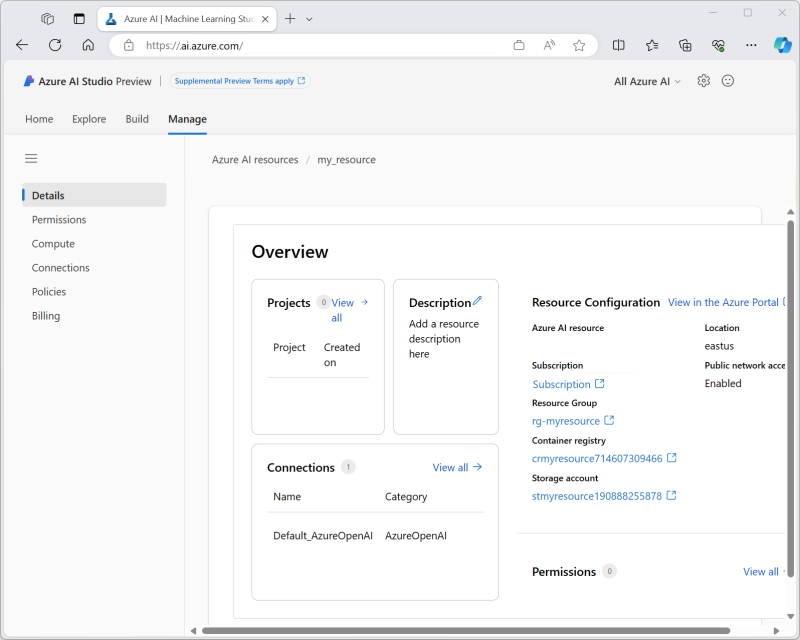
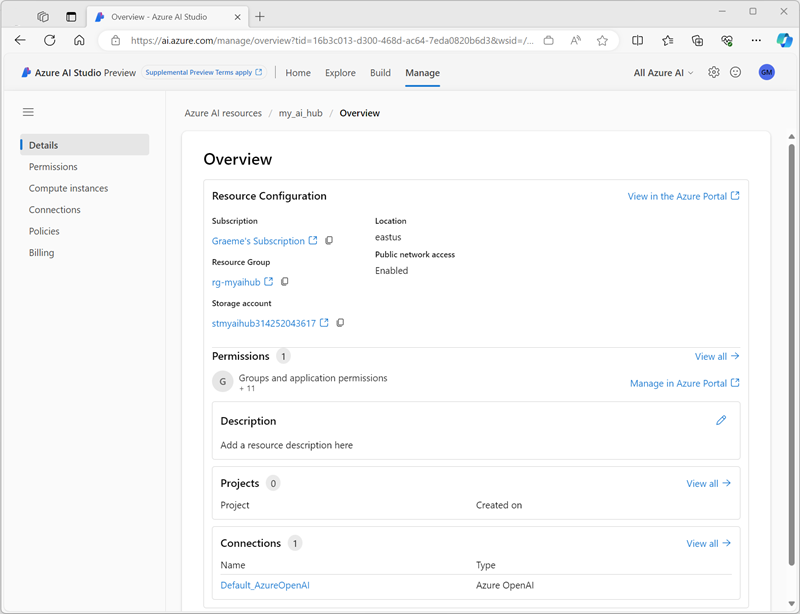
Updates

diff --git a/Instructions/Exercises/01-Explore-ai-studio.md b/Instructions/Exercises/01-Explore-ai-studio.md
@@ -5,11 +5,14 @@ lab:
 
 # Explore Azure AI Studio
 
-In this exercise, you'll use Azure AI Studio to create a project and explore a generative AI model, and then deploy a service through which users can chat with the model.
+In this exercise, you'll use Azure AI Studio to create a project and explore a generative AI model.
 
 > **Note**: Azure AI Studio is in preview at the time of writing, and is under active development. Some elements of the service may not be exactly as-described, and some features may not work as expected.
 
 This exercise takes approximately **30** minutes.
+
+> [!NOTE]
+> To complete this exercise, your Azure subscription must be approved for access to the Azure OpenAI service.
 
 ## Open Azure AI Studio
 
@@ -21,41 +24,37 @@ Let's start by viewing Azure AI Studio.
 
 1. Review the information on the home page and view each of the tabs, noting the options to explore models and capabilities, create projects, and manage resources.
 
-## Create an Azure AI resource
+## Create an Azure AI Hub
 
-You need an Azure AI resource in your Azure subscription to host projects. You can either create this resource while creating a project, or provision it ahead of time (which is what we'll do in this exercise).
+You need an Azure AI Hub in your Azure subscription to host projects. You can either create this resource while creating a project, or provision it ahead of time (which is what we'll do in this exercise).
 
-1. On the **Manage** page, select **+ New Azure AI resource**. Then, in the **Create a new Azure AI resource** wizard, create a new resource with the following settings:
-    - **Azure AI resource name**: *A unique name*
+1. On the **Manage** page, select **+ New Azure AI Hub**. Then, in the **Create a new Azure AI Hub** wizard, create a new resource with the following settings:
+    - **Azure AI Hub name**: *A unique name*
     - **Subscription**: *Your Azure subscription*
     - **Resource group**: *Create a new resource group with a unique name, or select an existing one*
     - **Location**: *Choose any Azure OpenAI service supported location*
-    - **Advanced options**:
-        - **AI Services provider**: New multi-service provider
-        - **AI Search**: None
+    - **Azure OpenAI**: (New) ai-*hub_name*
+    - **AI Search**: (None)
 
-    After the resource has been created, it should look similar to the following image:
+    After the Azure AI Hub has been created, it should look similar to the following image:
 
-    ![Screenshot of a resource details in Azure AI Studio.](./media/azure-ai-resource.png)
+    ![Screenshot of a Azure AI Hub details in Azure AI Studio.](./media/azure-ai-resource.png)
 
 1. Open a new browser tab (leaving the Azure AI Studio tab open) and browse to the Azure portal at [https://portal.azure.com](https://portal.azure.com?azure-portal=true), signing in with your Azure credentials if prompted.
-1. Browse to the resource group where you created your Azure AI resource, and view the resource along with some other Azure resources to support it.
+1. Browse to the resource group where you created your Azure AI Hub, and view the Azure resources that have been created.
 
-    ![Screenshot of an Azure AI resource and related resources in the Azure portal.](./media/azure-portal.png)
+    ![Screenshot of an Azure AI Hub and related resources in the Azure portal.](./media/azure-portal.png)
 
 1. Return to the Azure AI Studio browser tab.
-1. View each of the pages in the pane on the left side of the **Azure AI resource details** page, and note the artifacts you can create and manage in your resource.
+1. View each of the pages in the pane on the left side of the page for your Azure AI Hub, and note the artifacts you can create and manage. On the **Connections** page, observe that a connection to the Azure OpenAI resource you created with your Azure AI Hub named **Default_AzureOpenAI** has already been created.
 
 ## Create a project
 
-An Azure AI resource provides a collaborative workspace within which you can define one or more *projects*. Let's create a project in your Azure AI resource.
+An Azure AI Hub provides a collaborative workspace within which you can define one or more *projects*. Let's create a project in your Azure AI Hub.
 
 1. In Azure AI Studio, on the **Build** page, select **+ New project**. Then, in the **Create a new project** wizard, create a project with the following settings:
     - **Project name**: *A unique name for your project*
-    - **Azure AI resource**: *Your Azure AI resource*
-    - **Advanced options**:
-        - **Subscription**: *Your Azure subscription*
-        - **Resource group**: *The resource group where you created your Azure AI resource*
+    - **AI Hub**: *Your AI Hub*
 1. Wait for your project to be created. When it's ready, it should look similar to the following image:
 
     ![Screenshot of a project details page in Azure AI Studio.](./media/azure-ai-project.png)
@@ -66,65 +65,23 @@ An Azure AI resource provides a collaborative workspace within which you can def
 
 You can use a project to create complex AI solutions based on generative AI models. A full exploration of all of the development options available in Azure AI Studio is beyond the scope of this exercise, but we'll explore some basic ways in which you can work with models in a project.
 
-> [!NOTE]
-> To complete this part of the exercise, your Azure subscription must be approved for access to the Azure OpenAI service.
-
-1. In the **Components** section, select the **Deployments** page.
-1. On the **Deployments** page, select **+ Create** to create a model deployment.
+1. In the pane on the left for your project, in the **Components** section, select the **Deployments** page.
+1. On the **Deployments** page, select **+ Create** and create a real-time endpoint deployment.
 1. In the **Select a model** list, select the **gpt-35-turbo** model and confirm your selection. Then deploy the model with the following settings:
     - **Deployment name**: *A unique name for your model deployment*
     - **Model**: gpt-35-turbo
-    - **Advanced options**: *Use the default settings*
+    - **Model version**: *Select the default version*
+    - **Advanced options**:
+        - **Content filter**: Default
+        - **Deployment type**: Standard
+        - **Tokens per Minute Rate Limit (thousands)**: 5K
 
-    *The **gpt-35-turbo** model is provided by the Azure OpenAI service, which is restricted to approved subscriptions. If your subscription doesn't have access to the Azure OpenAI service, the **gpt-35-turbo** model won't be listed.*
+    > **Note**: Reducing the TPM helps avoid over-using the quota available in the subscription you are using. 5,000 TPM is sufficient for the data used in this exercise.
 
 1. After the model has been deployed, in the pane on the left, in the **Tools** section, select the **Playground** page.
 1. In the **Playground** page, ensure that your model deployment is selected in the **Configuration** section. Then, in the **Chat session** section, enter a query such as *What is AI?* and view the response:
 
     ![Screenshot of the playground in Azure AI Studio.](./media/playground.png)
-
-## Deploy a chat application
-
-The model you have deployed can be used to support a chat application hosted in Azure.
-
-### Deploy a web app
-
-1. In the **Playground** page, select **Deploy** and deploy a new web app with the following settings:
-    - **Name**: *A unique name for your web app*
-    - **Subscription**: *Your Azure subscription*
-    - **Resource group**: *The resource group where you created your Azure AI resource*
-    - **Location**: *The same location as your Azure AI resource*
-    - **Pricing plan**: Free (F1) *(if this option isn't available, select Basic (B1))*
-    - **Enable chat history in the web app**: <u>un</u>selected
-    - **I acknowledge that web apps will incur usage to my account**: Selected
-1. Wait for the app to be deployed, which might take a few minutes. When it's ready, the **Launch** button will be enabled on the toolbar (but don't launch the app yet!).
-
-    *Don't navigate away from the **Playground** page - you'll return to it later!*
-
-### Configure authentication
-
-1. Return to the browser tab containing the Azure portal (or re-open the [Azure portal](https://portal.azure.com?azure-portal=true) in a new browser tab) and view the contents of the resource group where you deployed the Azure AI resource and web app (you might need to refresh the view the see the web app).
-1. Select the **App service** resource for your web app to view its details, and then select its **Authentication** page under **Settings** in the pane on the left.
-1. Add a provider with the following settings:
-    - **Identity provider**: Microsoft
-    - **Tenant type**: Workforce
-    - **App registration**: Create a new app registration
-    - **Name**: *The name of your web app service*
-    - **Supported account types**: Current tenant - Single tenant
-    - **Restrict access**: Requires authentication
-    - **Unauthenticated requests**: HTTP 302 Found redirect - recommended for websites
-
-### Use the web app
-
-1. Wait 10 minutes or so for the authentication settings to take effect.
-1. Return to the browser tab containing the **Playground** page in Azure AI Studio.
-1. Select **Launch** to launch the deployed web app. If prompted, accept the permissions request.
-
-    *If the authentication settings haven't yet taken effect, close the browser tab for your web app and return to the **Playground** page in Azure AI Studio. Then wait a little longer and try again.*
-
-1. In your web app, enter a question and view the response; like this:
-
-    ![Screenshot of a chat web app.](./media/web-app.png)
 
 ## Clean up
 

diff --git a/Instructions/Exercises/03-Use-own-data.md b/Instructions/Exercises/03-Use-own-data.md
@@ -33,14 +33,13 @@ Now you're ready to create an Azure AI Studio project and the Azure AI resources
 1. In a web browser, open [Azure AI Studio](https://ai.azure.com) at `https://ai.azure.com` and sign in using your Azure credentials.
 1. on the **Build** page, select **+ New project**. Then, in the **Create a new project** wizard, create a project with the following settings:
     - **Project name**: *A unique name for your project*
-    - **Azure AI resource**: *Create a new resource with the following settings:*
-        - **Resource name**: *A unique name*
-        - **Subscription**: *Your Azure subscription*
+    - **AI Hub**: *Create a new resource with the following settings:*
+        - **AI Hub name**: *A unique name*
+        - **Azure Subscription**: *Your Azure subscription*
         - **Resource group**: *Select the resource group containing your Azure Ai Search resource*
         - **Location**: *The same location as your Azure AI Search resource (or a location geographically near it)*
-        - **Advanced options**:
-            - **AI Services provider**: New multi-service provider
-            - **Azure AI Search**: *Select your Azure AI Search resource*
+        - **Azure OpenAI**: (New) *hub_name*
+        - **Azure AI Search**: *Select your Azure AI Search resource*
 1. Wait for your project to be created.
 
 ## Deploy models
